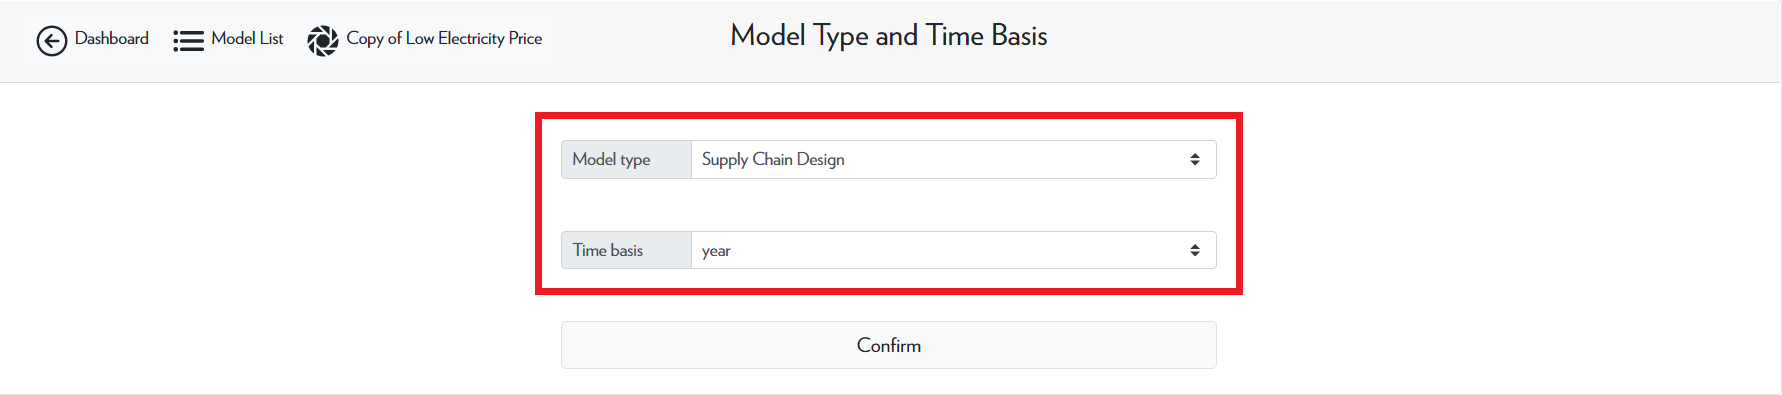
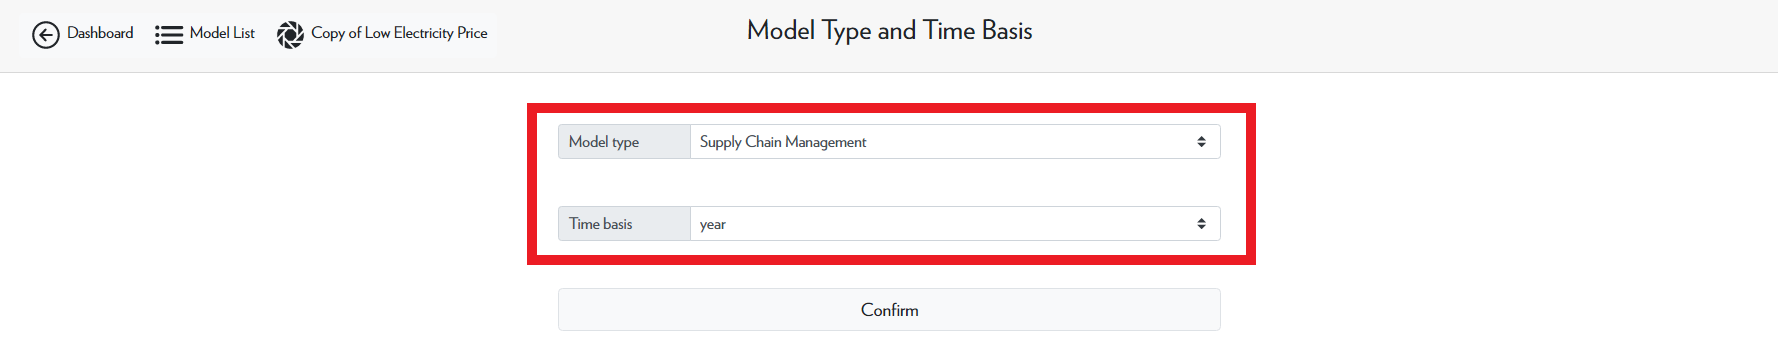
added tutorial pages

diff --git a/dashboard_results.md b/dashboard_results.md
@@ -26,7 +26,7 @@
 <br>
 
 <p>
-    Now that we have reviewed the result summary categories, we can apply these definitions to interpret this example results. 
+    Now that we have reviewed the result summary categories, we can apply these definitions to interpret the Waste to Energy, Low Electricity price scenario results. 
 </p>
 
 <img src="Pictures\Dashboard_tutorials\run_model\results.png">
@@ -42,27 +42,47 @@
 <h2>Download Results</h2> 
 
 <p>
-    You can also download the results in the form of csv files for more detailed information. For each model, there may be different result csv files depending on the model-type and the number of products that you have in your system.
+    You can also download the results in the form of csv files for more detailed information. For each model, there may be different result csv files depending on the model-type and the number of products that you have in your system. 
+</p>
+
+<p>
+    The table below gives a breif overview of the different types of result files. 
 </p>
 
 | Result File | Description |
 | ------------- | ------------- | 
-| clearing_prices | |
-| demand_results | |
-| flow_results | |
-| installment_results | | 
-| results_summary | |
-| supply_results | |
-| techsite_results | | 
-
-
-
-<img src="Pictures\Dashboard_tutorials\run_model\results_download.png">
+| clearing_prices | The real prices of the products at each node. This file is only generated for <b>management-type models</b>. |
+| demand_results | Contains information on the products and amount of product that is transported to each demand node. |
+| flow_results | Shows the amount of product flowimg from one node to another. The left column are the nodes which are supplying the product. The top row are the nodes that are receiving the product. |
+| installment_results | A list of the installed technologies and their locations. This file is only generated for <b>design-type models</b>. | 
+| results_summary | A file containing the results summary of the model. |
+| supply_results | A list of the supply nodes and how much product they are supplying to the system. |
+| techsite_results | A list of the amount of product processed at each technology site. | 
 
 <p>
-    For more information on each of the result files and the data they contain, please refer to the 
-<a href="/ADAM_Documentation/dashboard_result_files.html">Result Files Tutorial</a>.
+    Now that you have been introduced to each of the file types, we will use the Waste to Energy, Low Electricity Price scenario to explain each file in more detail. 
 </p>
+
+<h3>Clearing Prices File</h3>
+
+<p>
+
+</p>
+
+<h3>Demand Results File</h3>
+
+<p>
+</p>
+
+<h3>Flow Results File</h3>
+
+<h3>Installment Results File</h3>
+
+<h3>Results Summary File</h3>
+
+<h3>Supply Results File</h3>
+
+<h3>Technology Site Results File</h3>
 
 <h2>Visualization Tool</h2>
 

diff --git a/dashboard_edit_model.md b/dashboard_edit_model.md
@@ -11,13 +11,13 @@
 <h2>Step 1 - Model Type</h2>
 
 <p>
-    Step 1 is where the model type is defined. For most situations, you should leave the model type and time basis of a copied model as is. If the model type does not match the data, ADAM will be unable to run the model. If you are not sure, it is best to set it to supply chain design mode on a yearly time basis. 
+    Step 1 is where the model type and time basis are defined. For a copied model, you should leave the model type and time basis as is. Running a model as a mamagement-type model will give different result files than running the model as a design-type model. As a rule of thumb, design-type models have technology candidates whereas management-type models do not. 
 </p>
 
 <img src="Pictures\Dashboard_tutorials\edit_model\step1.png">
 
 <p>
-    In this example, we can see that the copied model is a design-type model with an annual time basis. 
+    Since the waste to energy example does not have technology candidates, it is a management-type model. 
 </p>
 
 <h2>Steps 2, 3, 4 - Adding Supply, Technology, and Demand Data</h2>

diff --git a/dashboard.md b/dashboard.md
@@ -21,6 +21,10 @@
 <a href="/ADAM_Documentation/input_files.html">The input files needed for ADAM</a>
 <br>
 <a href="/ADAM_Documentation/dashboard_results.html">Interpreting the Results</a>
+<br>
+<a href="/ADAM_Documentation/dashboard_vis_tool.html">Using the Visualization Tool</a>
+<br>
+<a href="/ADAM_Documentation/dashboard_p_graph.html">Interpreting the P-Graph</a>
 
 
 <!-- 

diff --git a/dashboard_p_graph.md b/dashboard_p_graph.md
@@ -1,0 +1,2 @@
+<h1>Process Graph (P-Graph)</h1>
+
